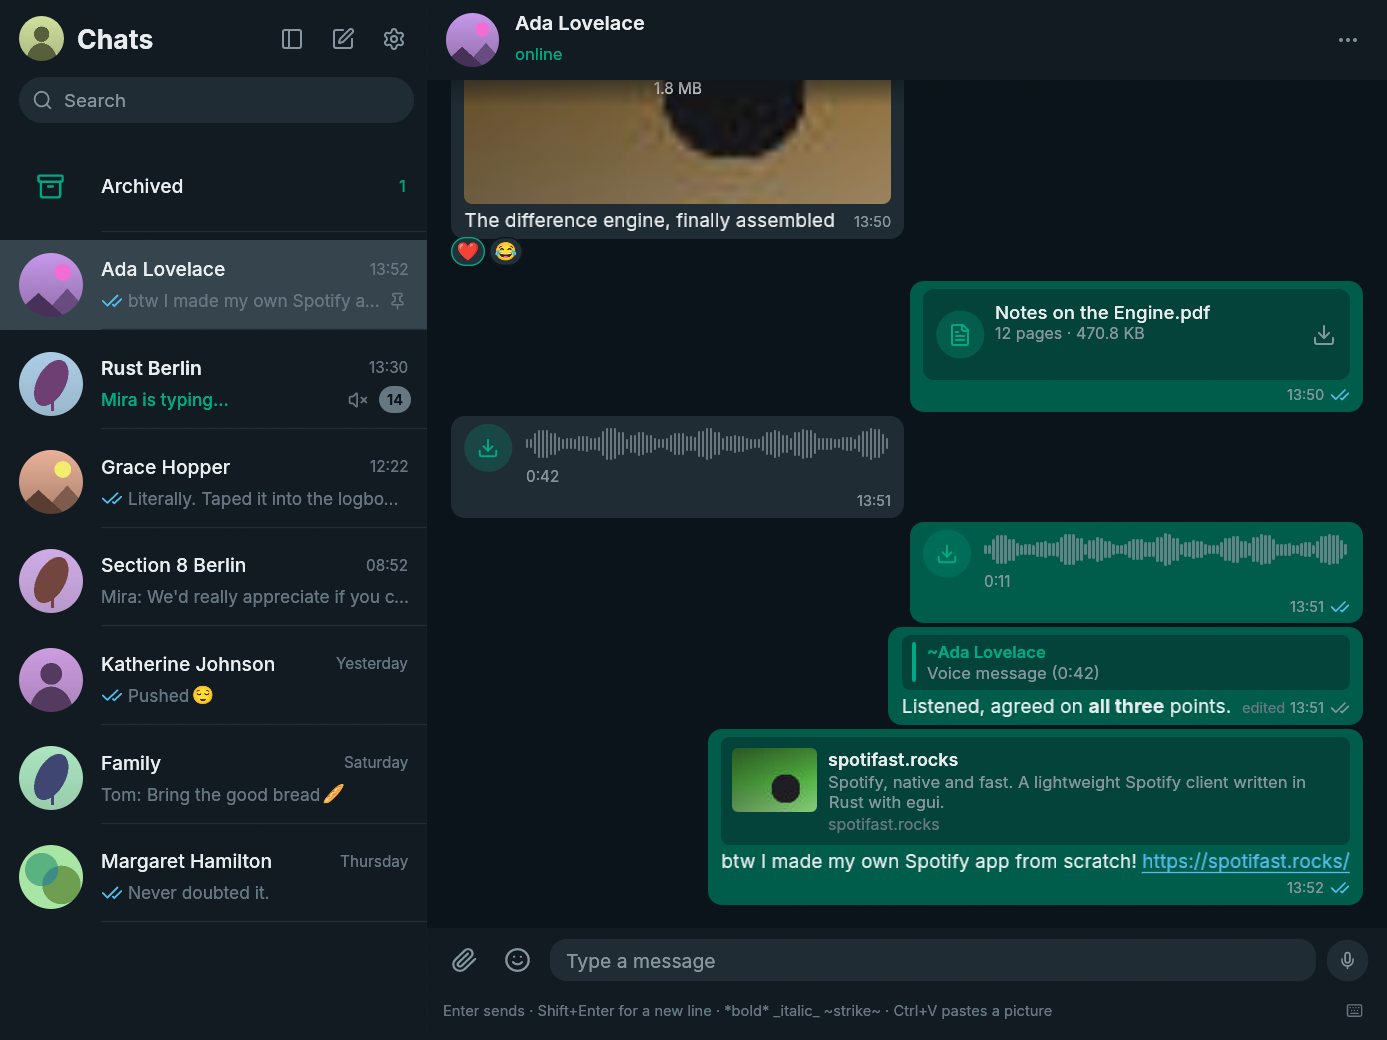
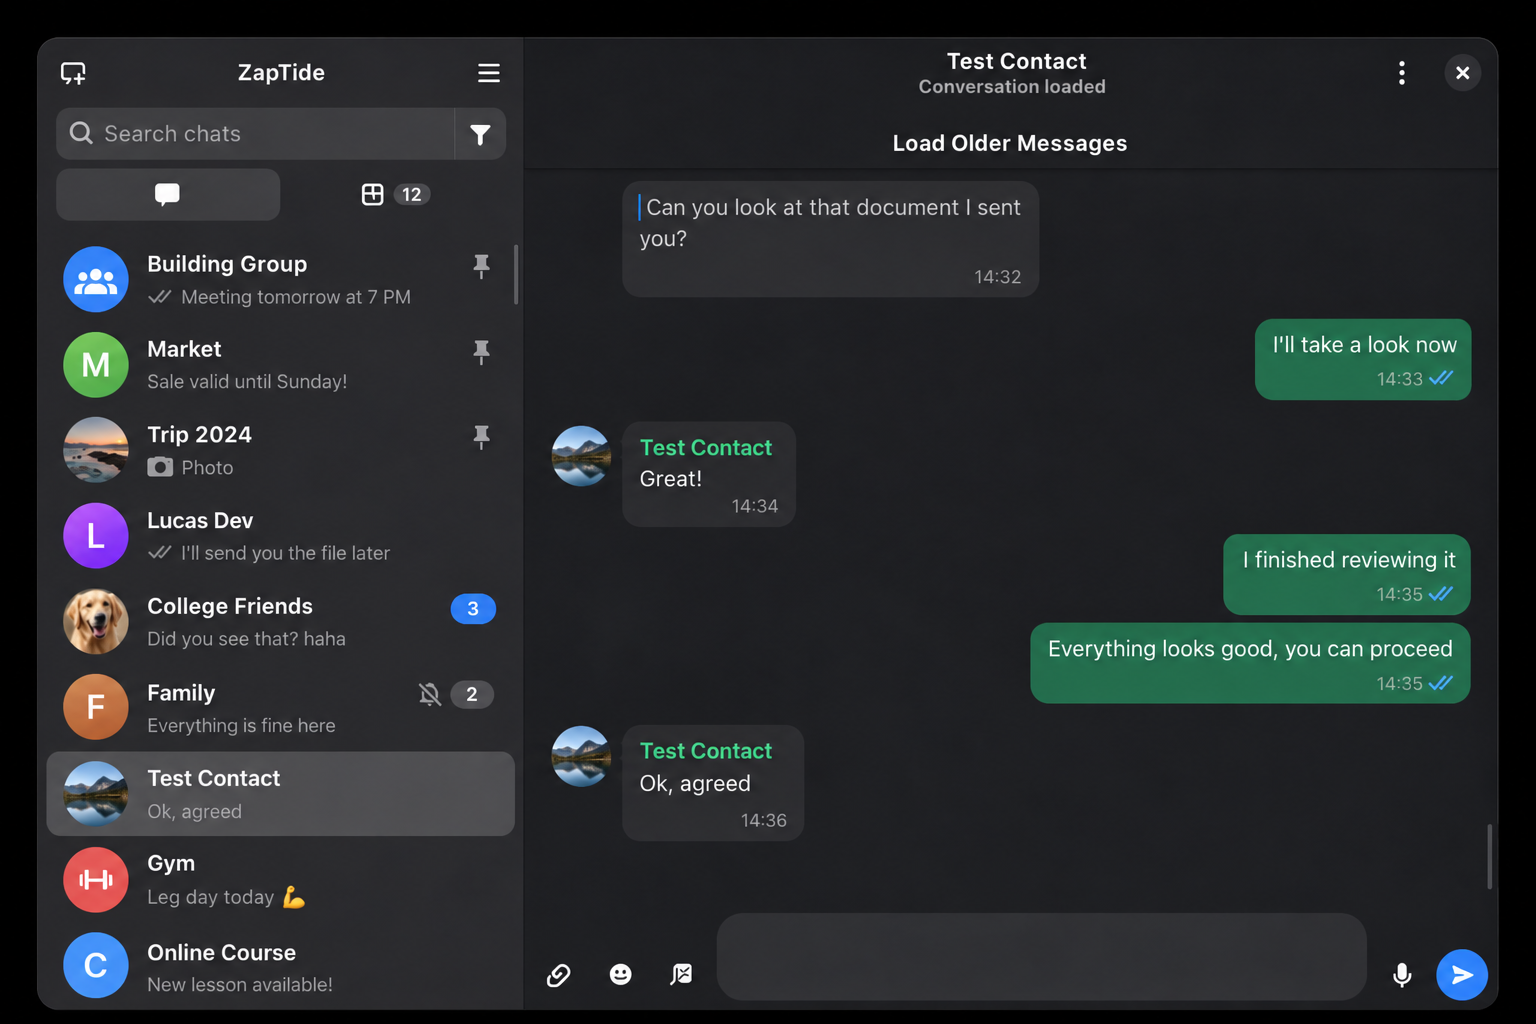
docs: point install to release assets and update screenshot

diff --git a/README.md b/README.md
@@ -32,19 +32,22 @@ after they expire on your phone.
 
 ## Install
 
-There is no stable release yet. Build and install the Flatpak from this checkout
-with `flatpak-builder` and a Flathub remote:
+Download a release from [GitHub Releases](https://github.com/luminusOS/zaptide/releases).
+There is no stable release yet. The release workflow publishes a Flatpak bundle
+for x86_64; an AppImage will be another option when it is available.
+
+With a Flathub remote configured, install the downloaded `.flatpak` bundle:
 
 ```sh
-flatpak-builder --user --install --force-clean --install-deps-from=flathub build-dir packaging/flatpak/dev.luminusos.ZapTide.yml
+flatpak install --user ./zaptide-vX.Y.Z-x86_64.flatpak
 ```
 
-Or install from source after setting up the dependencies in
-[PACKAGING.md](PACKAGING.md#build-dependencies):
+When the AppImage is available, save it as `zaptide.AppImage`, make it
+executable and run it:
 
 ```sh
-cargo install --path .
-zaptide
+chmod +x ./zaptide.AppImage
+./zaptide.AppImage
 ```
 
 On first launch, use WhatsApp's **Linked devices** menu to scan the QR code or
@@ -65,7 +68,7 @@ FastWhatsApp; link it as a separate companion device.
 
 ## Development
 
-See [PACKAGING.md](PACKAGING.md) for build and Flatpak details and
+See [PACKAGING.md](PACKAGING.md) for build dependencies and Flatpak packaging, and
 [AGENTS.md](AGENTS.md) for architecture and contribution rules. ZapTide is a
 [ZapFast](https://github.com/crmne/zapfast) fork with a native GTK interface.
 
